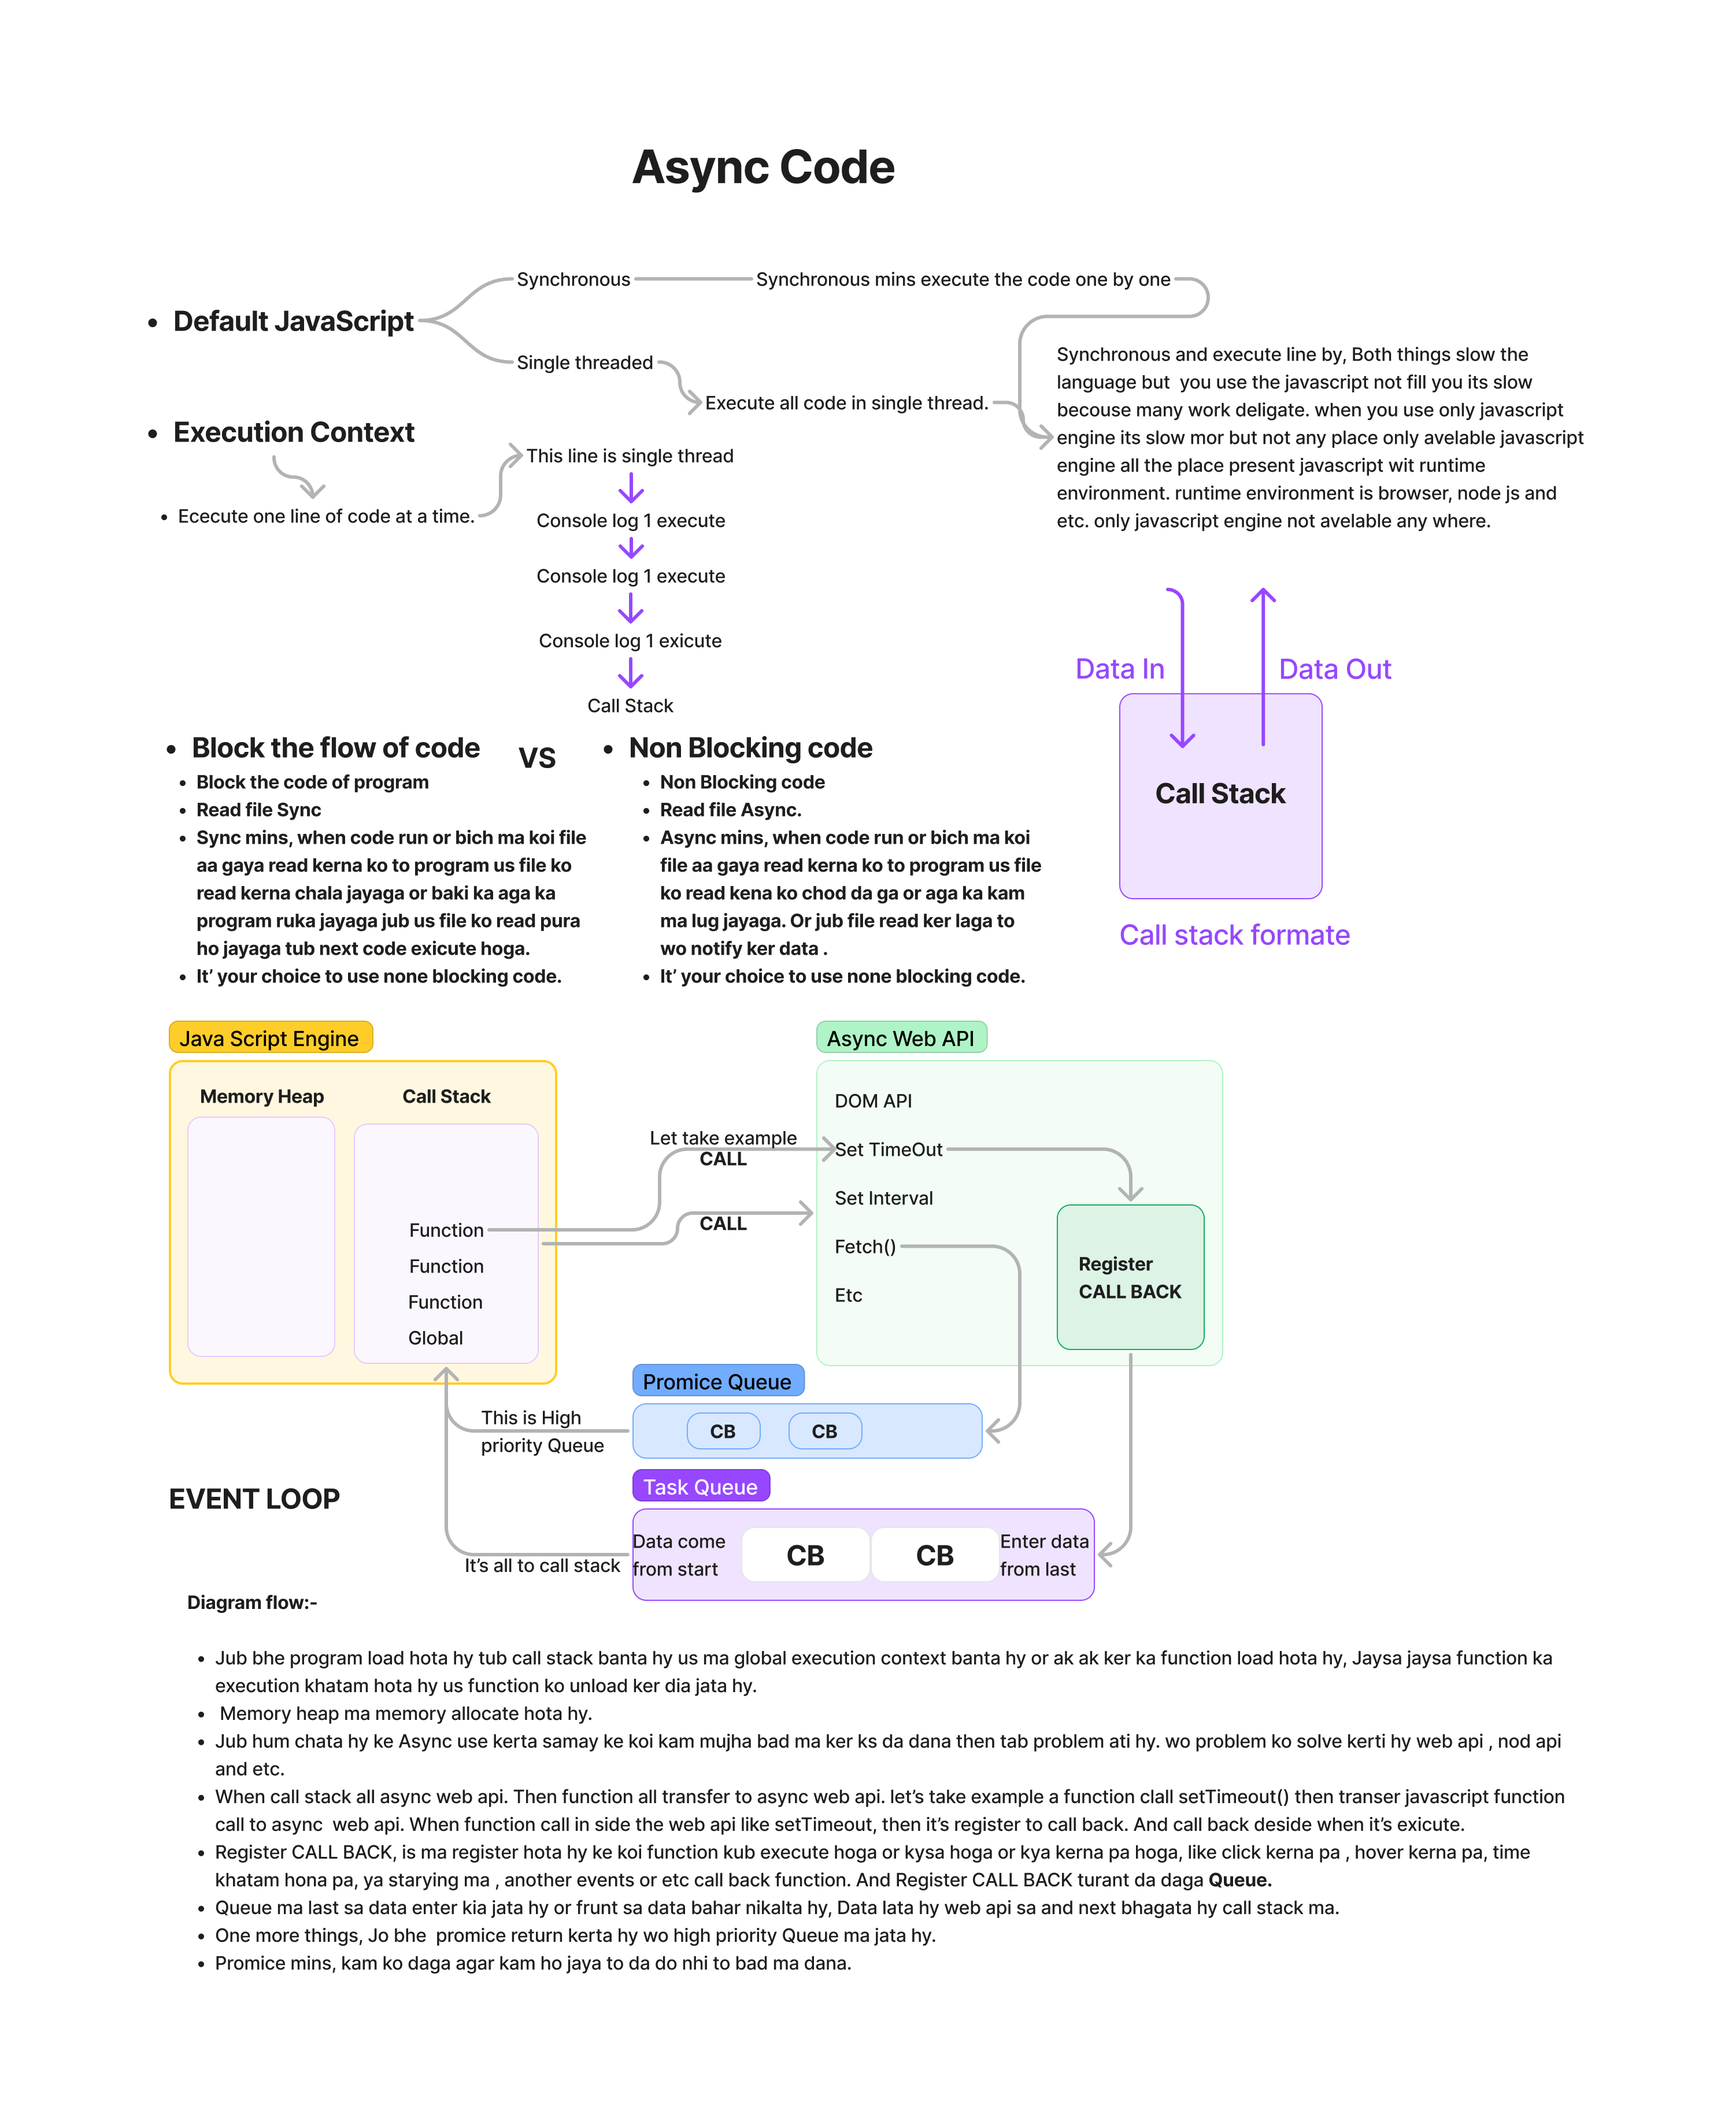
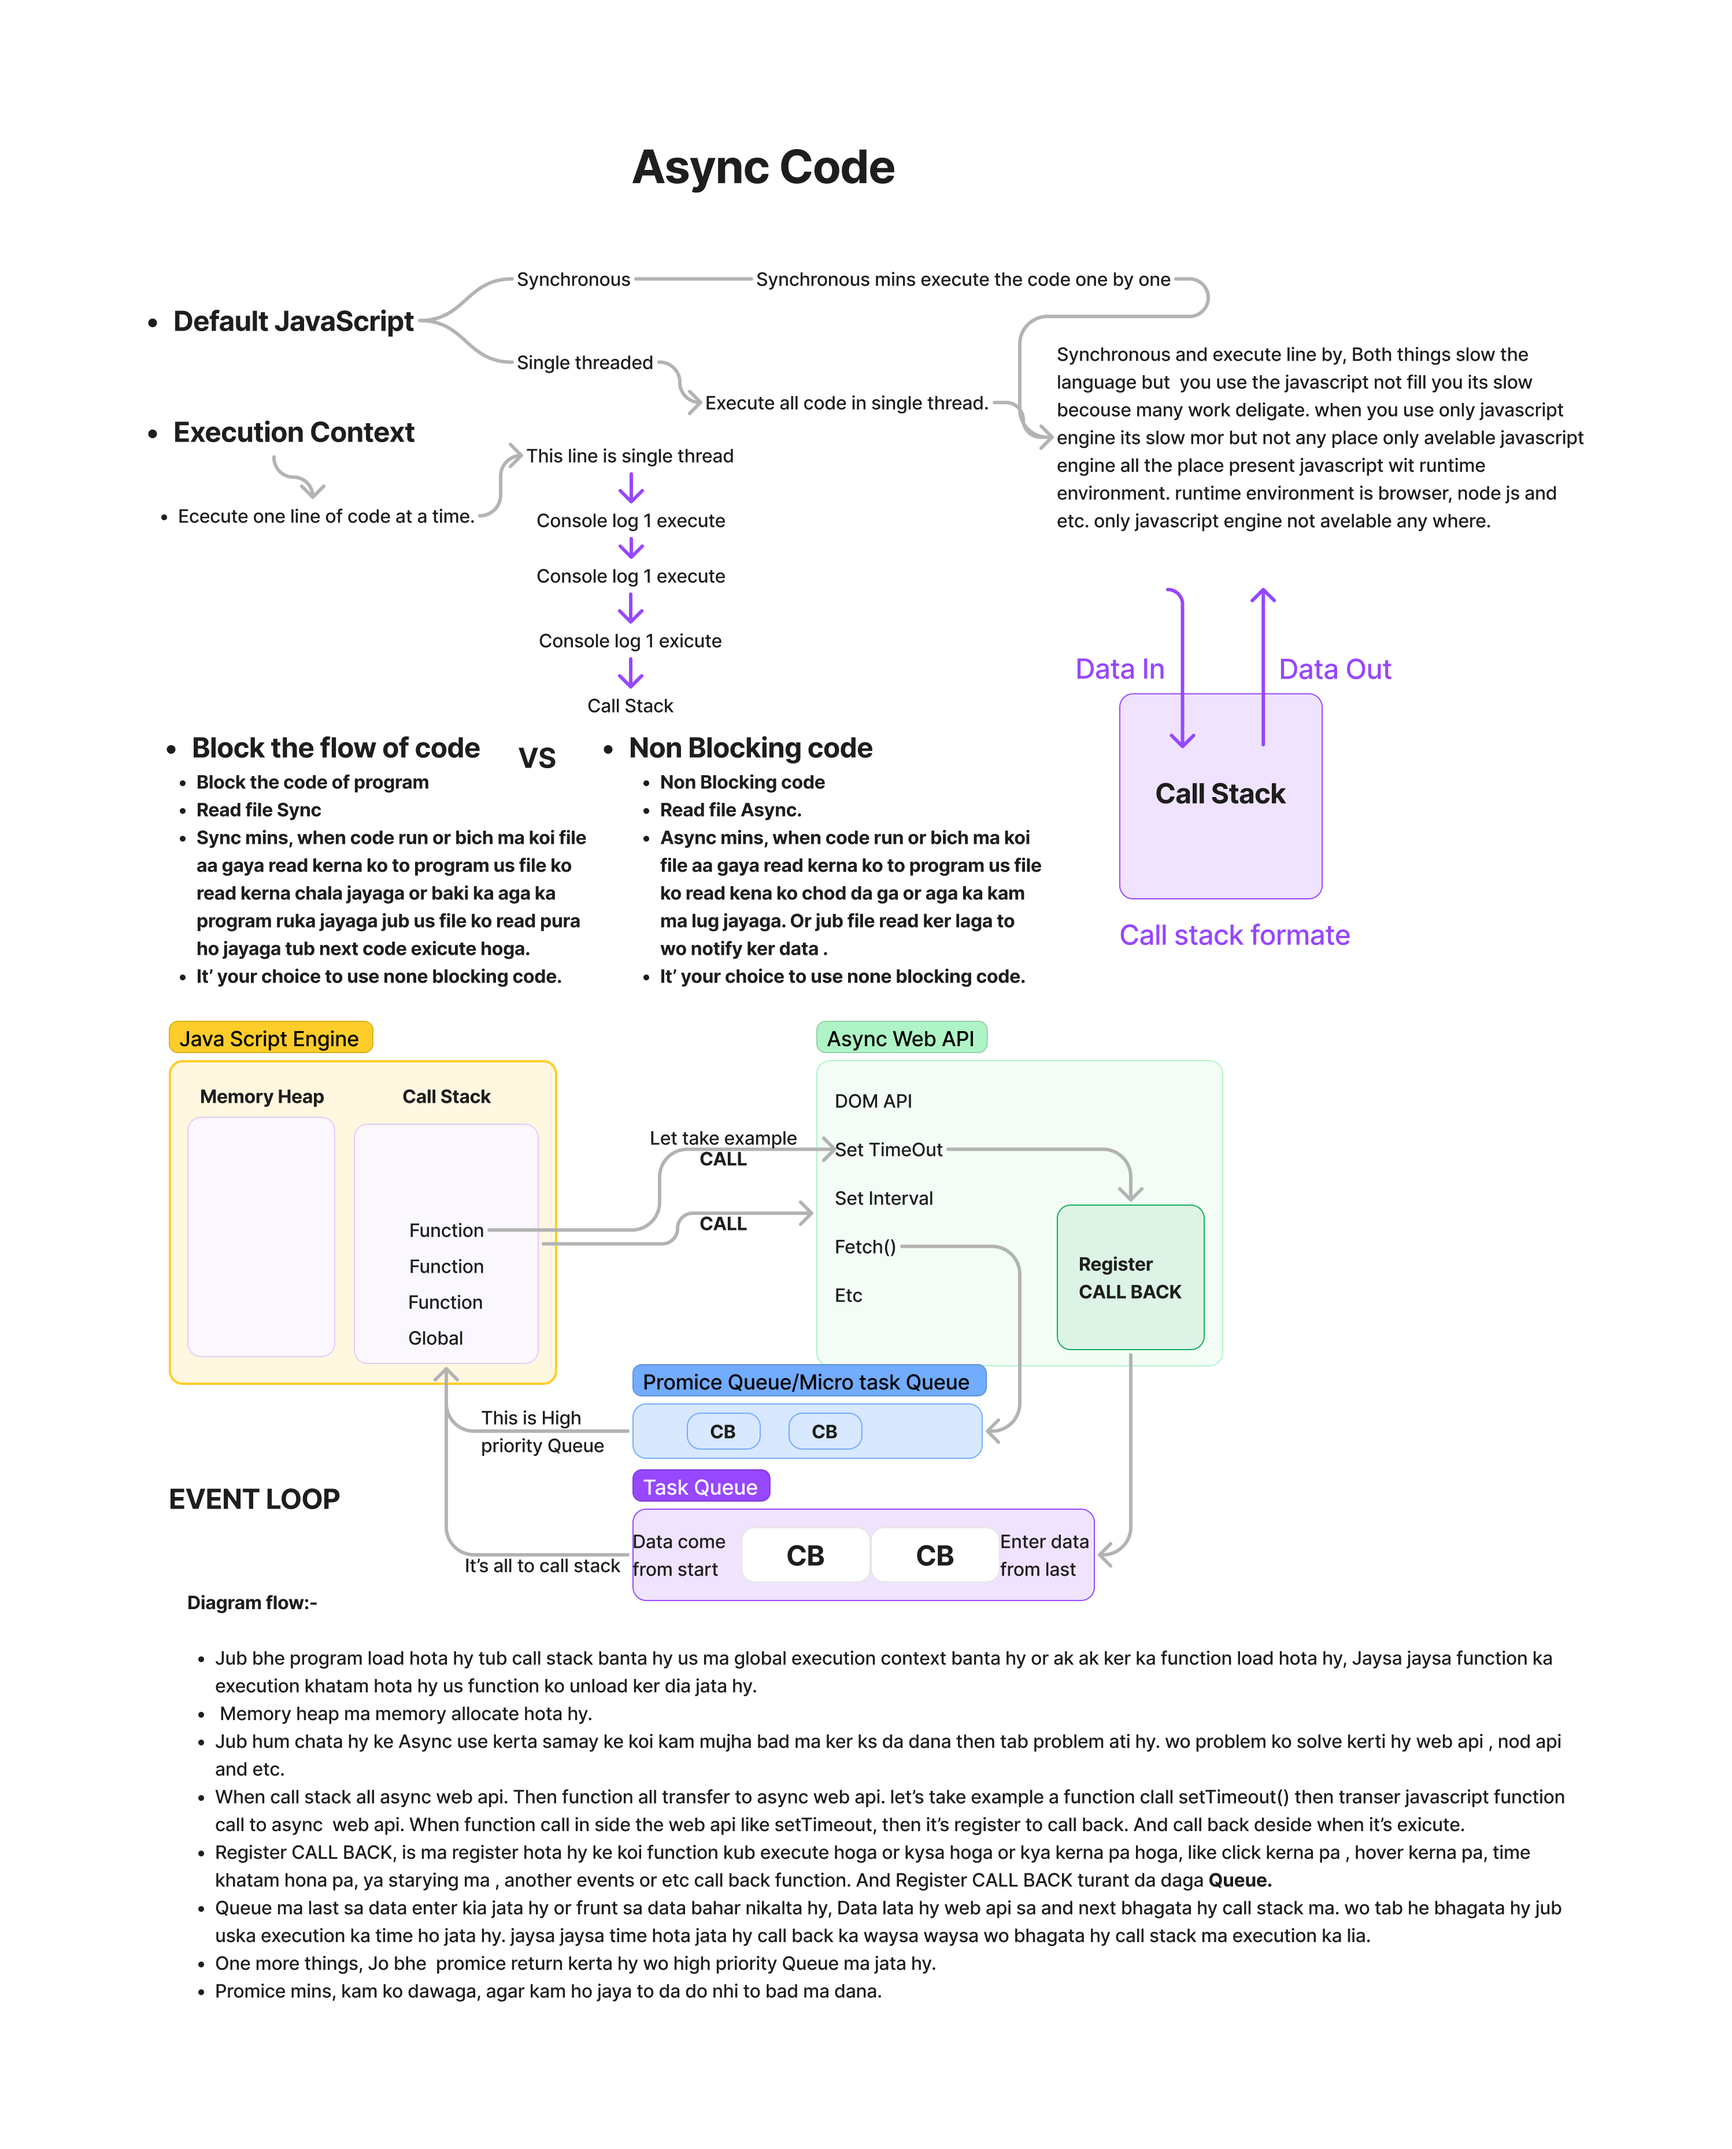
commit

diff --git a/09_api/03_promice.html b/09_api/03_promice.html
@@ -216,7 +216,9 @@
 
     // getAllUses();
 
-    // # 11
+    // # 11  // 2022 ma fetch aya in node js.
+    //catch ma error tab ata hy jub wo fetch nhi ker pata hy network url ko .
+    //lakin anothe status code error aya ga to response ma milaga jo api daga.
     fetch("https://api.github.com/users")
       .then((res) => {
         console.log(res);
@@ -227,6 +229,7 @@
 
     /*One problom :-
     Why api call and error first and othe which are top of the api call are call last after call api.
+    Becouse We learn in lase events async code 'Promice Queue/Micro task Queue' that way it's run first .Iska Priority jayda rahata hy ya Task Queue apacely fetch ka lia banta hy.
      */
   </script>
 </html>
